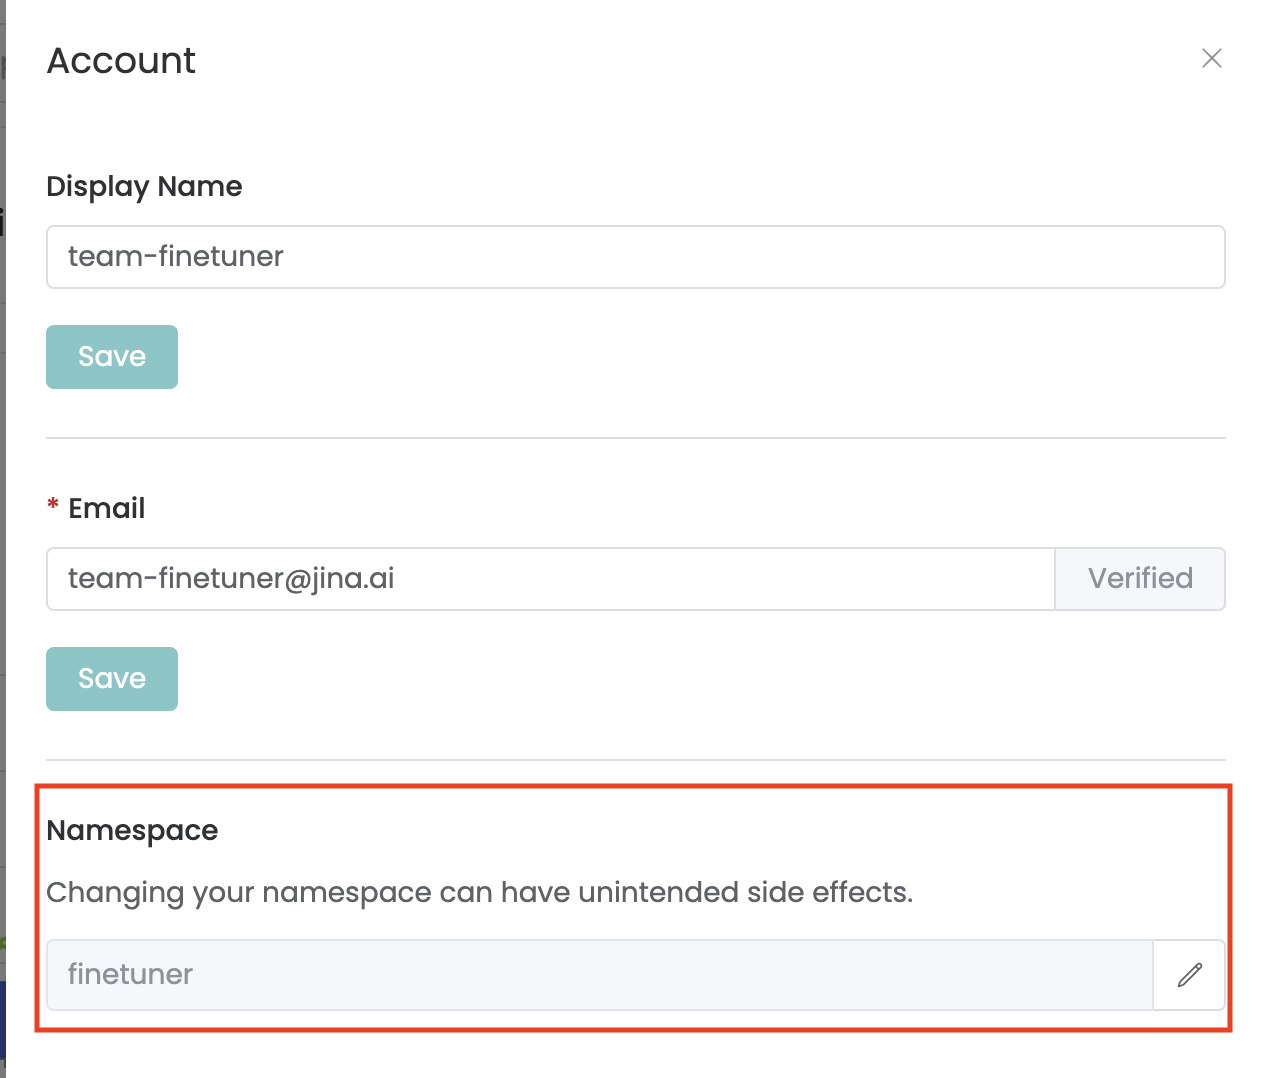
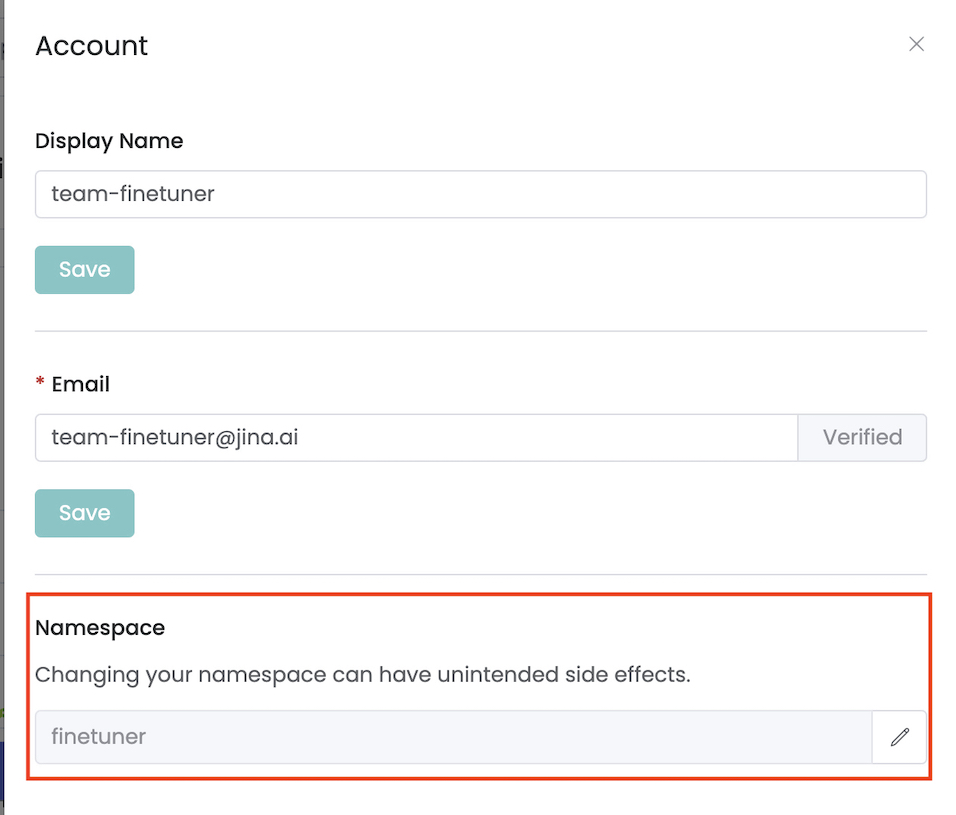
docs: adjust image size

diff --git a/docs/concepts/login.md b/docs/concepts/login.md
@@ -51,8 +51,10 @@ To retrieve your own namespace,
 log in to [Jina AI Cloud](https://cloud.jina.ai/) and click the `account` button under your profile image.
 You will find your namespace in the `Namespace` section.
 
-![namespace-1](../imgs/namespace1.jpeg)
-![namespace-2](../imgs/namespace2.jpeg)
+
+...             |  ...
+:-------------------------:|:-------------------------:
+![namespace-1](../imgs/namespace1.jpeg)  |  ![namespace-2](../imgs/namespace2.jpeg)
 
 
 ## Troubleshooting
